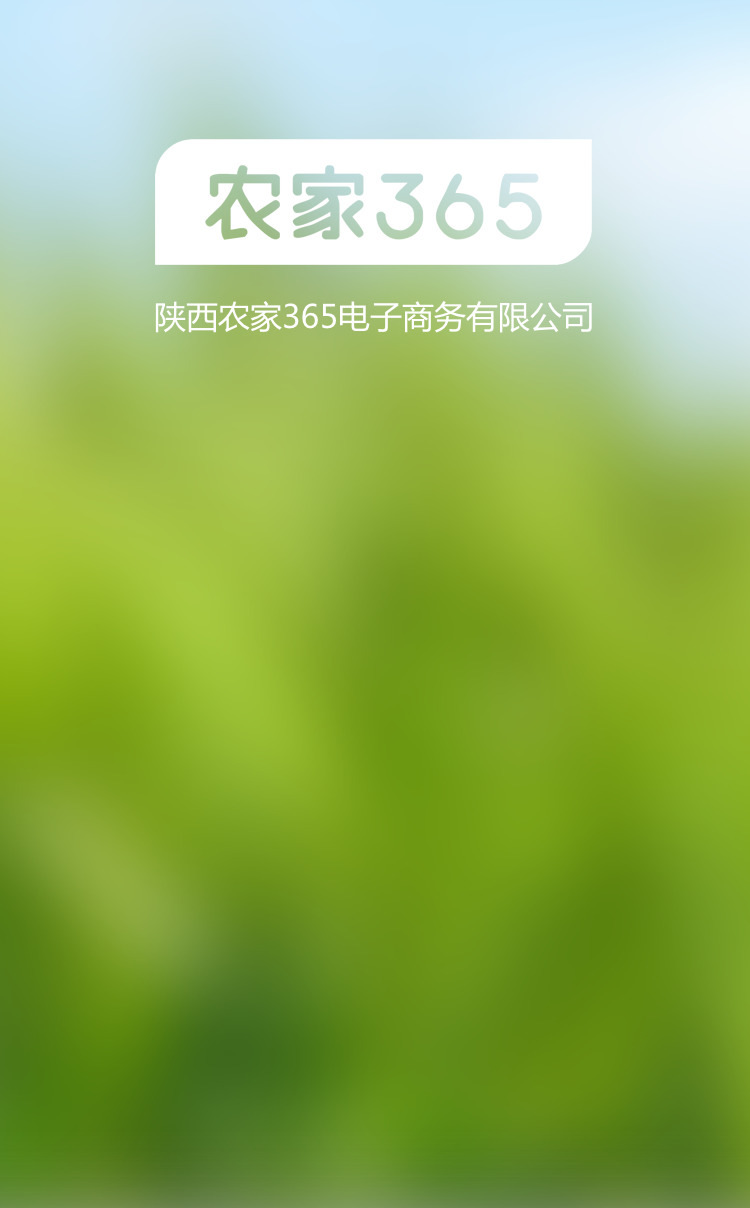
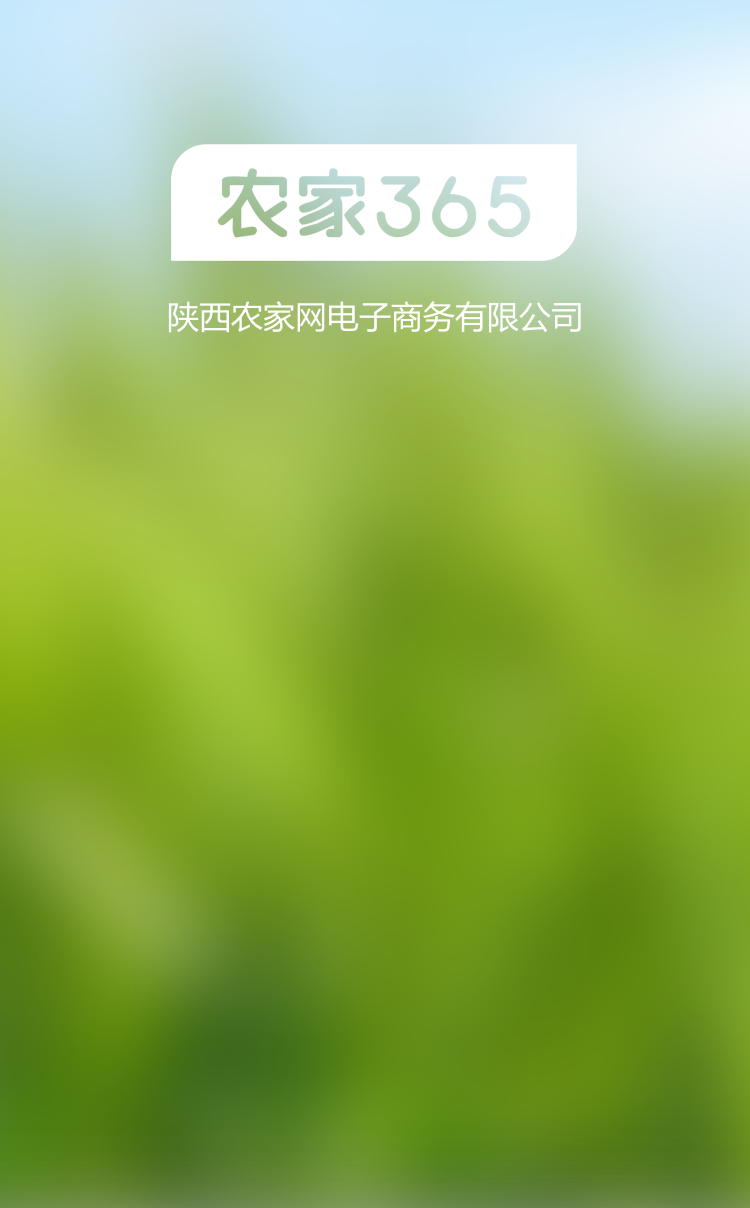
fix

Changed region(s): [[0.184, 0.0919, 0.7973, 0.2757]]

diff --git a/index.html b/index.html
@@ -5,7 +5,7 @@
     <meta http-equiv="Content-Type">
     <meta content="text/html; charset=utf-8">
     <meta charset="utf-8">
-    <title>陕西农家365电子商务有限公司</title>
+    <title>陕西农家网电子商务有限公司</title>
     <meta name="viewport" content="initial-scale=1, maximum-scale=1, user-scalable=no">
     <meta name="format-detection" content="telephone=no">
     <meta name="format-detection" content="email=no">
@@ -26,7 +26,7 @@
                 </a>
             </li>
             <li>
-                <a href="http://m.51xnb.cn/wxweb/microwebsite/goarticleindex.do?ids=578d191d-6726-419f-812c-4dd51c83fece&partnerid=6731b127-0006-11e8-930f-ecf4bbc06c38">
+                <a href="http://m.51xnb.cn/wxweb/microwebsite/goarticleindex.do?ids=6b7048f0-c28f-464c-b715-61e52c32a1be&partnerid=6731b127-0006-11e8-930f-ecf4bbc06c38">
                     <img src="images/icon-2.png" />
                     <p>企业动态</p>
                 </a>
@@ -44,7 +44,7 @@
                 </a>
             </li> -->
             <li>
-                <a href="http://apis.map.qq.com/uri/v1/marker?marker=coord:34.229460,108.890950title:陕西农家网电子商务有限公司addr:陕西省西安市高新区唐延路11号禾盛京广中心3号楼1104室" >
+                <a href="http://apis.map.qq.com/uri/v1/marker?marker=coord:34.229460,108.890950;title:陕西农家网电子商务有限公司;addr:陕西省西安市高新区唐延路11号禾盛京广中心3号楼1104室" >
                     <img src="images/icon-5.png" />
                     <p>一键导航</p>
                 </a>

diff --git a/contact.html b/contact.html
@@ -5,7 +5,7 @@
     <meta http-equiv="Content-Type">
     <meta content="text/html; charset=utf-8">
     <meta charset="utf-8">
-    <title>陕西农家365电子商务有限公司</title>
+    <title>陕西农家网电子商务有限公司</title>
     <meta name="viewport" content="initial-scale=1, maximum-scale=1, user-scalable=no">
     <meta name="format-detection" content="telephone=no">
     <meta name="format-detection" content="email=no">
@@ -24,7 +24,7 @@
             <a href="index.html" class="home leftsize" title="首页"></a>
             <a href="javascript:history.go(-1)" class="back leftsize" title="返回"></a>
             <a href="tel:4000-365-000" class="tel leftsize" title="电话"></a>
-            <a href="http://apis.map.qq.com/uri/v1/marker?marker=coord:34.229460,108.890950title:陕西农家网电子商务有限公司addr:陕西省西安市高新区唐延路11号禾盛京广中心3号楼1104室" class="post leftsize" title="定位"></a>
+            <a href="http://apis.map.qq.com/uri/v1/marker?marker=coord:34.229460,108.890950;title:陕西农家网电子商务有限公司;addr:陕西省西安市高新区唐延路11号禾盛京广中心3号楼1104室" class="post leftsize" title="定位"></a>
         </div>
 
         <div class="text-left color-white" style="position: absolute; top:33%; width: 87%; font-size: 16px; padding: 0 6.5%;">

diff --git a/about.html b/about.html
@@ -5,7 +5,7 @@
     <meta http-equiv="Content-Type">
     <meta content="text/html; charset=utf-8">
     <meta charset="utf-8">
-    <title>陕西农家365电子商务有限公司</title>
+    <title>陕西农家网电子商务有限公司</title>
     <meta name="viewport" content="initial-scale=1, maximum-scale=1, user-scalable=no">
     <meta name="format-detection" content="telephone=no">
     <meta name="format-detection" content="email=no">
@@ -18,7 +18,7 @@
         <a href="index.html" class="home leftsize" title="首页"></a>
         <a href="javascript:history.go(-1)" class="back leftsize" title="返回"></a>
         <a href="tel:4000-365-000" class="tel leftsize" title="电话"></a>
-        <a href="http://apis.map.qq.com/uri/v1/marker?marker=coord:34.229460,108.890950title:陕西农家网电子商务有限公司addr:陕西省西安市高新区唐延路11号禾盛京广中心3号楼1104室" class="post leftsize" title="定位"></a>
+        <a href="http://apis.map.qq.com/uri/v1/marker?marker=coord:34.229460,108.890950;title:陕西农家网电子商务有限公司;addr:陕西省西安市高新区唐延路11号禾盛京广中心3号楼1104室" class="post leftsize" title="定位"></a>
     </div>
     <div class="content" id="content" >
         <a href="http://mp.weixin.qq.com/s/2t-sOELLpgpcWXStPHD0Gw">
